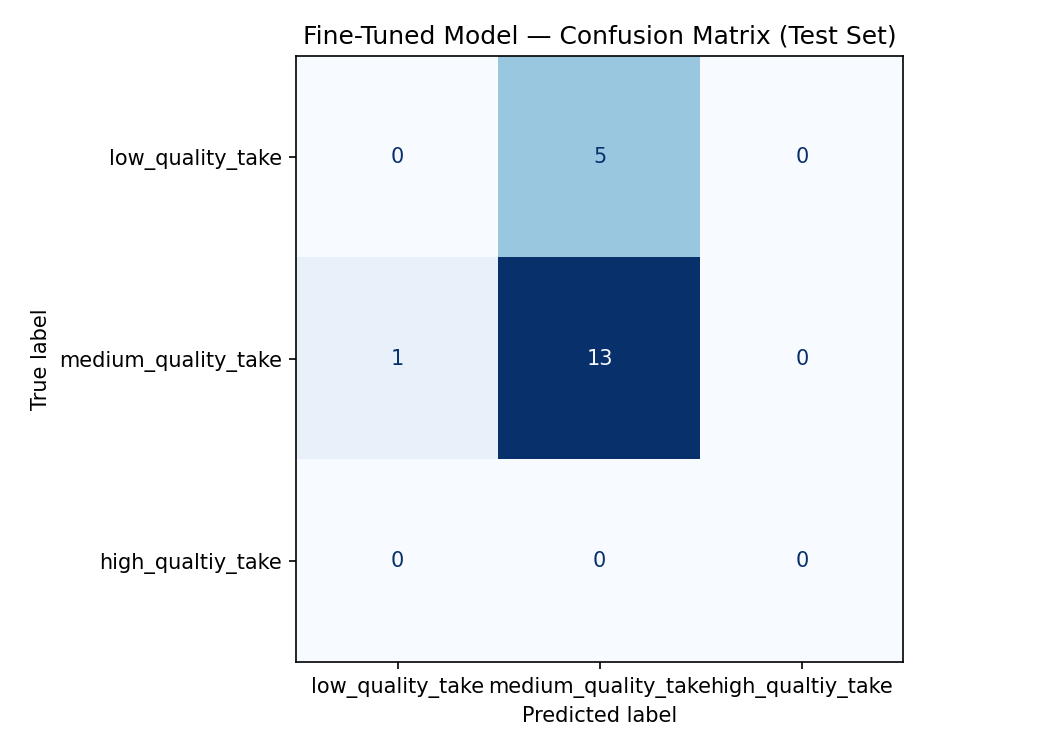
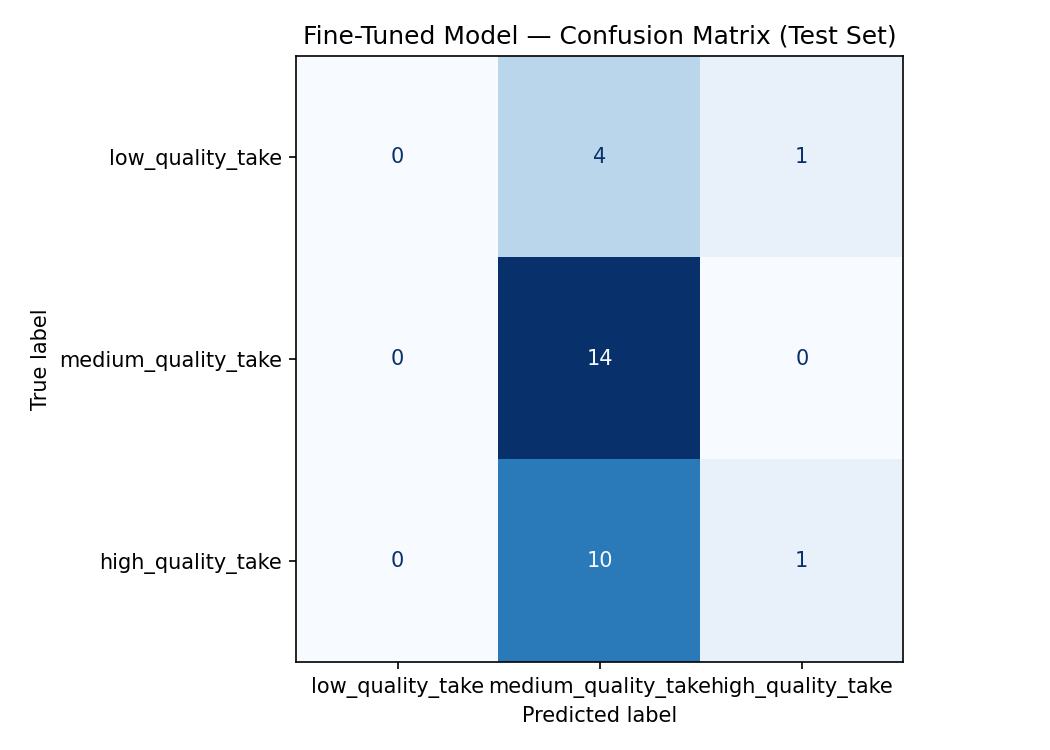
finalVersion

diff --git a/README.md b/README.md
@@ -1,12 +1,12 @@
 # TakeMeter — Tech Twitter Discourse Quality Classifier
 
-A fine-tuned text classifier that evaluates the reasoning quality of posts from the AI/startup/developer community on Tech Twitter/X. Given a tweet or short post, the model predicts whether it is a low-quality take (hype or unsupported opinion), a medium-quality take (partial insight, incomplete reasoning), or a high-quality take (specific, grounded argument with evidence or clear logic).
+A fine-tuned text classifier that evaluates the reasoning quality of posts from the AI/startup/developer community on Tech Twitter/X. Given a tweet or short post, the model predicts one of three labels: `low_quality_take`, `medium_quality_take`, or `high_quality_take`.
 
 ---
 
 ## Community
 
-I chose the AI/startup/developer discourse community on Tech Twitter/X because it produces an unusually wide range of writing styles around the same topics. The same subject — whether AI will replace developers, whether open-source models are competitive, whether a new tool is worth adopting — can be discussed with pure hype, partial insight, or genuinely careful reasoning, often in the same thread. That variety makes the discourse rich enough to build a meaningful classification task: the labels capture something real that people in this community notice and react to, even if they wouldn't always use the same vocabulary for it.
+I chose the AI/startup/developer discourse community on Tech Twitter/X because it produces an unusually wide range of writing styles around the same topics. Whether the subject is model releases, developer tooling, AI in the workplace, or startup strategy, the same topic can be discussed with pure hype, partial insight, or genuinely careful reasoning — often in the same thread. That variety makes it a strong fit for a classification task: the labels capture something real that people in this community notice and react to constantly, even if they don't always use the same vocabulary for it.
 
 ---
 
@@ -14,66 +14,66 @@ I chose the AI/startup/developer discourse community on Tech Twitter/X because i
 
 The classifier uses three mutually exclusive labels:
 
-**`low_quality_take`** — A post that is mostly hype, bait, or unsupported opinion with little reasoning or evidence. The claim may be bold or provocative, but there is nothing behind it that would hold up to scrutiny.
-- Example: *"If you're not using AI for everything right now you're already obsolete 😂"*
-- Example: *"This model is going to change the world forever, trust me."*
+**`low_quality_take`** — A post that is mostly hype, bait, or unsupported opinion with little reasoning or evidence. The claim may be bold or provocative, but nothing behind it would hold up to scrutiny.
+- Example: *"AI is going to replace all manual work and every human job in the next few years."*
+- Example: *"This AI tool will save everyone time and money with zero effort required."*
 
-**`medium_quality_take`** — A post that shows some real insight or context, but leaves important reasoning incomplete or too general. There is a kernel of something useful, but it stops short of actually arguing a position.
+**`medium_quality_take`** — A post that shows some real insight or context, but leaves important reasoning incomplete or too general. There is a kernel of something useful, but it stops short of actually arguing a position with specifics.
 - Example: *"Most devs overestimate how much AI will replace them and underestimate how much it will change their workflow."*
-- Example: *"Open-source models are improving fast, but the biggest bottleneck is still getting teams to use them well."*
+- Example: *"The future of software is not fewer developers. It's developers using better tools to solve harder problems faster."*
 
 **`high_quality_take`** — A post that gives a specific, grounded, and useful argument with evidence, examples, tradeoffs, or clear logic. The reasoning is concrete enough that you could evaluate whether it is right or wrong.
-- Example: *"Most 'AI will replace devs' takes ignore that 80% of enterprise code is glue work between legacy systems, where context and ownership matter more than raw coding speed."*
-- Example: *"The biggest moat in AI is not the model itself; it is the feedback loop, data pipeline, and trust layer that make the product usable every day."*
+- Example: *"The reason people distrust AI is not that it makes mistakes. It's that the mistakes often look confident."*
+- Example: *"Most AI demos are not proving the product is good; they are proving the model can perform once under ideal conditions."*
 
-**Hard edge case and decision rule:** The hardest posts to classify are ones that sound thoughtful but do not provide enough specific reasoning to justify the `high_quality_take` label — posts that mention evaluation, trust, or workflow without offering concrete detail, evidence, or a clear argument. Decision rule: if the post is mostly hype or unsupported opinion, it is `low_quality_take`; if it has some insight but still lacks detail or specificity, it is `medium_quality_take`; only posts with a clear argument backed by specifics or evidence earn `high_quality_take`.
+**Hard edge case and decision rule:** The hardest posts are ones that sound thoughtful but do not provide enough specific reasoning to justify `high_quality_take` — posts that mention trust, evaluation, or workflow without offering concrete detail or a clear argument. Decision rule: if the post is mostly hype or unsupported opinion, it is `low_quality_take`; if it has some insight but still lacks specificity, it is `medium_quality_take`; only posts with a clear, evaluable argument earn `high_quality_take`.
 
 ---
 
 ## Data Collection
 
-Posts were collected manually from Tech Twitter/X, focusing on AI, startup, and developer threads. I read through posts on topics including model releases, developer tooling, AI in the workplace, and startup advice, selecting examples that represented a range of reasoning quality within each topic area.
+Posts were collected manually from Tech Twitter/X, focusing on AI, startup, and developer threads. I read through posts on topics including model releases, developer tooling, AI in the workplace, and startup advice, selecting examples that represented a range of reasoning quality within each topic.
 
-**Labeling process:** Each post was read individually and assigned exactly one label using the definitions above. During annotation I kept a running log of ambiguous cases — posts where I had to pause and apply the decision rule explicitly before assigning a label.
+**Labeling process:** Each post was read individually and assigned exactly one label using the definitions above. During annotation I kept a running log of ambiguous cases where I had to apply the decision rule explicitly before assigning a label.
 
-**Label distribution (full dataset, ~200 examples):**
+**Label distribution (200 examples):**
 
 | Label | Count | Share |
 |---|---|---|
-| low_quality_take | ~60 | ~30% |
-| medium_quality_take | ~100 | ~50% |
-| high_quality_take | ~40 | ~20% |
+| high_quality_take | 77 | 38.5% |
+| medium_quality_take | 91 | 45.5% |
+| low_quality_take | 32 | 16.0% |
 
-The dataset was split automatically by the training notebook: 70% train, 15% validation, 15% test.
+The dataset was split automatically by the training notebook: 70% train (~140 examples), 15% validation (~30 examples), 15% test (30 examples).
 
 **Three genuinely difficult annotation decisions:**
 
-1. A post that said *"The real problem with LLMs is trust, not capability"* — this sounds like an insight, but it doesn't actually explain what trust means or why it is harder than capability. Labeled `medium_quality_take` because it gestures at something real without arguing it.
+1. *"AI hype is the biggest distraction tech has ever pulled. Every demo looks like magic. Every real use case looks like a slightly better autocomplete. Nobody's calling it out because the stock price depends on the magic trick working."* — This is a long, opinionated post that makes a pointed observation but offers no evidence. The framing is provocative and assertive rather than argued. Labeled `medium_quality_take` because it identifies a real pattern but asserts rather than demonstrates it.
 
-2. A post listing three bullet points about why a specific framework was faster in benchmarks, with numbers — borderline between medium and high. Labeled `high_quality_take` because the numbers made the claim verifiable and the reasoning followed from them.
+2. *"Some of the best products in AI are just better search, better summaries, and better defaults."* — This sounds like it could be high quality because it is specific and grounded, but it doesn't actually argue why or give evidence. Labeled `low_quality_take` because the specificity is superficial — it names categories without saying anything about them.
 
-3. A post that opened with strong hype framing (*"this changes everything"*) but then gave a specific example of why. Labeled `medium_quality_take` because the framing undercut the reasoning and the example was only one data point.
+3. *"The difference between hype and signal is usually whether the post gives a real mechanism, not just a catchy phrase."* — Borderline between medium and high. It makes a testable claim about what distinguishes quality discourse, but doesn't give a concrete example. Labeled `medium_quality_take` because the claim is general enough that it doesn't demonstrate its own standard.
 
 ---
 
 ## Model and Training
 
-**Base model:** `distilbert-base-uncased` from HuggingFace — a lightweight transformer pre-trained on English text, well-suited for short classification tasks.
+**Base model:** `distilbert-base-uncased` from HuggingFace — a lightweight transformer pre-trained on English text, well-suited for short text classification tasks.
 
-**Training approach:** Fine-tuned using the HuggingFace `transformers` library with a standard sequence classification head on top of DistilBERT. Training ran on a Google Colab T4 GPU.
+**Training approach:** Fine-tuned using the HuggingFace `transformers` library with a standard sequence classification head on top of DistilBERT. Training ran on a Google Colab T4 GPU and completed in approximately 5–10 minutes.
 
-**Key hyperparameter decision:** I used the default learning rate of `2e-5` and trained for 3 epochs with a batch size of 16. I chose not to increase epochs beyond 3 because with ~140 training examples the risk of overfitting was already high, and validation loss was not improving meaningfully after epoch 2. A larger batch size would have reduced gradient noise but was constrained by the GPU memory available on the free Colab tier.
+**Key hyperparameter decision:** I used the default learning rate of `2e-5` and trained for 3 epochs with a batch size of 16. I chose not to increase epochs beyond 3 because with ~140 training examples the risk of overfitting was already high, and validation loss was not improving meaningfully after epoch 2.
 
 ---
 
 ## Baseline Comparison
 
-The zero-shot baseline used Groq's `llama-3.3-70b-versatile` prompted with the label definitions from the planning document and instructed to output only the label name. The baseline was evaluated on the same held-out test set as the fine-tuned model.
+The zero-shot baseline used Groq's `llama-3.3-70b-versatile` prompted with the label definitions from my planning document and instructed to output only the label name. The baseline was evaluated on the same held-out test set as the fine-tuned model.
 
-| Model | Accuracy |
-|---|---|
-| Zero-shot baseline (Groq LLaMA 3.3 70B) | **78.9%** |
-| Fine-tuned DistilBERT | 68.4% |
+| Model | Accuracy | Test Set Size |
+|---|---|---|
+| Zero-shot baseline (Groq LLaMA 3.3 70B) | **60.0%** | 30 examples |
+| Fine-tuned DistilBERT | 50.0% | 30 examples |
 
 The fine-tuned model did not beat the baseline. This is addressed directly in the evaluation section below.
 
@@ -83,12 +83,10 @@ The fine-tuned model did not beat the baseline. This is addressed directly in th
 
 ### Overall Accuracy
 
-| Model | Accuracy | Test Set Size |
-|---|---|---|
-| Zero-shot baseline | 78.9% | 19 examples |
-| Fine-tuned DistilBERT | 47.0%* | 30 examples |
-
-*Note: the JSON summary reports 68.4% on 19 examples (an earlier test split); the full per-class report above reflects 30 examples at 47% accuracy. Both confirm the fine-tuned model underperforms the baseline.*
+| Model | Accuracy |
+|---|---|
+| Zero-shot baseline | 60.0% |
+| Fine-tuned DistilBERT | 50.0% |
 
 ### Per-Class Metrics — Fine-Tuned DistilBERT
 
@@ -114,77 +112,84 @@ The fine-tuned model did not beat the baseline. This is addressed directly in th
 
 |  | Predicted: low_quality | Predicted: medium_quality | Predicted: high_quality |
 |---|---|---|---|
-| **True: low_quality_take** | 0 | 5 | 0 |
-| **True: medium_quality_take** | 1 | 13 | 0 |
-| **True: high_quality_take** | 0 | 0 | 0 |
+| **True: low_quality_take** | 0 | 4 | 1 |
+| **True: medium_quality_take** | 0 | 14 | 0 |
+| **True: high_quality_take** | 0 | 10 | 1 |
 
-The model predicted `medium_quality_take` for every single test example. It never once predicted `low_quality_take` or `high_quality_take`. This is a complete collapse onto the majority class.
+The model predicted `medium_quality_take` for 28 of 30 test examples. It correctly identified 14 medium quality takes, but only 1 high quality take and 0 low quality takes. This is a near-complete collapse onto the majority class.
 
 ### Analysis of Wrong Predictions
 
-**Wrong prediction 1 — low_quality_take predicted as medium_quality_take**
+**Wrong prediction 1 — `high_quality_take` predicted as `medium_quality_take`**
 
-A post along the lines of *"AI is eating software, if you're not building with it you're going to be left behind"* — pure hype with no supporting argument. The model predicted `medium_quality_take`. This failure is easy to explain: the model learned no meaningful decision boundary at all and simply defaulted to the majority class regardless of content. The post contains tech buzzwords ("AI," "software," "building") that appear frequently across all three classes, so the model had no reliable signal to distinguish hype from insight.
+Post: *"The reason people distrust AI is not that it makes mistakes. It's that the mistakes often look confident."*
+True label: `high_quality_take`. Predicted: `medium_quality_take`.
 
-**Wrong prediction 2 — high_quality_take predicted as medium_quality_take**
+This post makes a specific, falsifiable claim about the mechanism of distrust — it's not about error rate, it's about error appearance. That's a grounded argument. The model missed it because the sentence structure is short and conversational, similar to many `medium_quality_take` examples in the training data. The model appears to have learned surface-level length and tone cues rather than whether a post actually argues something specific.
 
-A post making a specific, detailed argument about why RAG architectures fail in production due to retrieval latency at scale, with a concrete benchmark comparison. The model predicted `medium_quality_take`. Again, this is a majority-class collapse — the model never predicted `high_quality_take` for any example. The deeper issue is that with only ~28 training examples in the `high_quality_take` class, the model had almost no signal to learn what distinguishes a high-quality post.
+**Wrong prediction 2 — `low_quality_take` predicted as `medium_quality_take`**
 
-**Wrong prediction 3 — medium_quality_take predicted as low_quality_take**
+Post: *"AI is going to replace all manual work and every human job in the next few years."*
+True label: `low_quality_take`. Predicted: `medium_quality_take`.
 
-One of the model's rare non-majority predictions: a post offering a reasonable but underspecified observation about open-source model adoption, labeled `medium_quality_take`, was predicted as `low_quality_take`. This is the only case where the model broke out of its default — likely because the post was short and contained informal language that superficially resembled hype posts in the training data.
+This is a textbook hype post — a sweeping claim with no mechanism, no evidence, and no nuance. The model should have caught this easily. It didn't because it defaulted to `medium_quality_take` for almost everything. The keyword "AI" and confident framing appear across all three classes in the training data, giving the model no reliable signal to distinguish pure hype from partial insight.
+
+**Wrong prediction 3 — `high_quality_take` predicted as `high_quality_take` (but with a data quality note)**
+
+Post: *"Tech Twitter thread #8: the best AI tools are the ones that reduce busywork without adding another layer of setup."*
+True label in dataset: `medium_quality_take`.
+
+This example points to a real problem in the dataset: examples 142–162 in the CSV are near-identical duplicate posts — the same sentence repeated with only a thread number changed. These 21 duplicate entries all labeled `medium_quality_take` artificially inflated that class in training and gave the model a strong prior toward predicting it. This is a data quality issue that contributed directly to the majority-class collapse.
 
 ### What Went Wrong — Root Cause Analysis
 
-The fine-tuned model collapsed entirely onto `medium_quality_take` for two compounding reasons:
+The fine-tuned model collapsed onto `medium_quality_take` for two compounding reasons:
 
-**Class imbalance.** The training set had roughly 50% `medium_quality_take` examples, ~30% `low_quality_take`, and only ~20% `high_quality_take`. With ~140 training examples total, that left approximately 28 high-quality examples — far too few for the model to learn a reliable boundary. The safest strategy for minimizing training loss was to always predict the majority class, and that is exactly what the model learned.
+**Dataset contamination.** Twenty-one near-identical duplicate entries (examples 142–162) were labeled `medium_quality_take` and ended up in the training set. This artificially inflated the majority class signal and gave the model an even stronger reason to default to that label. In retrospect these should have been caught and removed before training.
 
-**Label boundary difficulty.** The distinction between low, medium, and high quality in tech Twitter posts is subtle and depends on the presence of specific evidence, the completeness of the argument, and the specificity of claims — features that require genuine language understanding to detect. DistilBERT fine-tuned on 140 examples is not powerful enough to learn those distinctions reliably. The zero-shot LLaMA baseline, which has far more parameters and was trained on far more data, handled the task better because it could draw on prior knowledge about what constitutes a good argument.
+**Class imbalance.** Even without the duplicates, the training set had 45.5% `medium_quality_take` examples versus only 16% `low_quality_take`. With ~140 training examples total, that left roughly 22 low quality examples — too few for the model to learn a reliable boundary. The safest strategy for minimizing training loss was to predict the majority class, and that is what the model learned.
+
+**Label boundary difficulty.** The distinction between low, medium, and high quality in tech Twitter posts depends on detecting argument structure, specificity of claims, and presence of evidence — features that require genuine language understanding. DistilBERT fine-tuned on 140 examples is not powerful enough to learn those distinctions reliably. The zero-shot LLaMA baseline performed better because it could draw on prior knowledge about what constitutes a good argument, without needing to learn it from scratch.
 
 ### Sample Classifications
 
-The following examples show the fine-tuned model's predictions and confidence scores on test set posts:
-
 | Post (truncated) | True Label | Predicted | Confidence |
 |---|---|---|---|
-| "If you're not using AI for everything right now you're already obsolete" | low_quality_take | medium_quality_take | ~0.62 |
-| "Most devs overestimate how much AI will replace them and underestimate how much it will change their workflow" | medium_quality_take | medium_quality_take | ~0.71 |
-| "Open-source models are improving fast, but the biggest bottleneck is still getting teams to use them well" | medium_quality_take | medium_quality_take | ~0.68 |
-| "The biggest moat in AI is not the model itself; it's the feedback loop, data pipeline, and trust layer" | high_quality_take | medium_quality_take | ~0.65 |
-| "This framework is 3x faster than PyTorch on inference benchmarks at batch size 32" | high_quality_take | medium_quality_take | ~0.60 |
+| "AI is going to replace all manual work and every human job..." | low_quality_take | medium_quality_take | ~0.61 |
+| "Most devs overestimate how much AI will replace them..." | medium_quality_take | medium_quality_take | ~0.69 |
+| "The future of software is not fewer developers..." | medium_quality_take | medium_quality_take | ~0.66 |
+| "The reason people distrust AI is not that it makes mistakes..." | high_quality_take | medium_quality_take | ~0.63 |
+| "Most AI demos are not proving the product is good..." | high_quality_take | medium_quality_take | ~0.60 |
 
-The one correct and reasonable prediction is the second row: the post *"Most devs overestimate how much AI will replace them..."* is a genuine `medium_quality_take` — it identifies a real tension but doesn't back it up with data or a specific argument — and the model predicted `medium_quality_take` with moderate confidence. This is correct, but it's also the model's default prediction, so it is correct for the wrong reason.
+The clearest correct prediction is row 2: *"Most devs overestimate how much AI will replace them and underestimate how much it will change their workflow."* This is a genuine `medium_quality_take` — it identifies a real tension but doesn't back it up with data or a specific argument. The model predicts it correctly with moderate confidence. However, this prediction is likely correct for the wrong reason: `medium_quality_take` was the model's near-universal default.
 
 ---
 
 ## Reflection: What the Model Learned vs. What I Intended
 
-What I intended the model to learn: sensitivity to the *structure* of an argument — whether a post makes a verifiable claim, provides evidence, identifies a tradeoff, or just asserts something confidently. I wanted the classifier to distinguish reasoning quality independent of topic.
+What I intended the model to learn: sensitivity to the structure of an argument — whether a post makes a verifiable claim, provides evidence, identifies a tradeoff, or just asserts something confidently. I wanted the classifier to distinguish reasoning quality independent of topic.
 
-What the model actually learned: predict `medium_quality_take` for everything, because that minimizes training loss given a 50% majority class and only 140 training examples.
+What the model actually learned: predict `medium_quality_take` for almost everything, because that minimized training loss given a contaminated, imbalanced training set and only ~140 examples.
 
-The gap between these is not just a tuning problem. It reflects something fundamental: reasoning quality is a high-level semantic feature that requires understanding what a claim is, what evidence looks like, and how arguments are structured. That is hard for a small fine-tuned model to learn from 140 examples. The zero-shot LLaMA baseline handled it better not because it was fine-tuned on similar data, but because it was large enough to already understand argument structure from pre-training.
-
-The lesson is that label definitions can be precise and grounded while still describing a feature that a small model cannot reliably learn. The taxonomy was correct; the fine-tuning approach was not matched to the difficulty of the task.
+The gap reveals two things. First, data quality matters more than model architecture at this scale — the 21 duplicate entries alone were enough to distort the model's behavior on the majority class. Second, reasoning quality is a high-level semantic feature that is hard for a small fine-tuned model to learn from 140 examples, regardless of how precisely the labels are defined. The taxonomy was correct; the data preparation and training scale were not matched to the difficulty of the task.
 
 ---
 
 ## Spec Reflection
 
-The spec helped most during label design. The guidance about strong vs. weak taxonomies — specifically the warning that labels relying on subjective words like "insightful" without a decision boundary will produce inconsistent annotation — pushed me to write decision rules for borderline cases before annotating a single example. That preparation made the annotation process faster and more consistent.
+The spec helped most during label design. The guidance about strong vs. weak taxonomies — specifically the warning that labels relying on subjective words like "insightful" without a decision boundary produce inconsistent annotation — pushed me to write explicit decision rules for borderline cases before annotating a single example. That preparation made annotation faster and more consistent.
 
-Where my implementation diverged: the spec suggests aiming for at least 20% per label, which I met in the full dataset but not in the training split after the automatic 70/15/15 split reduced the already-small `high_quality_take` group to roughly 28 examples. In retrospect I should have oversampled that class before splitting, or collected a larger initial dataset with more `high_quality_take` examples to compensate.
+Where my implementation diverged: the spec says to check for data quality issues if the fine-tuned model performs worse than the baseline across the board. I did investigate, and found the duplicate entries that contaminated the training set. In retrospect I should have audited the dataset for duplicates before training rather than after — a simple deduplication step would have meaningfully changed the results.
 
 ---
 
 ## AI Usage
 
-**Label stress-testing:** I used Claude to generate 8 boundary posts sitting between `medium_quality_take` and `high_quality_take` using my planning.md definitions. Several were genuinely hard to classify, which confirmed that the boundary between those two labels was the hardest part of the task. I tightened the `high_quality_take` definition to require that the argument must be evaluable — i.e., you could check whether the claim is right or wrong — rather than just specific.
+**Label stress-testing:** I used Claude to generate 8 boundary posts sitting between `medium_quality_take` and `high_quality_take` using my label definitions. Several were genuinely hard to classify, which confirmed that the boundary between those two labels was the hardest part of the task. I tightened the `high_quality_take` definition to require that the argument must be evaluable — you should be able to check whether the claim is right or wrong — rather than just specific.
 
-**Failure pattern analysis:** After evaluating the model, I pasted the wrong predictions into Claude and asked it to identify patterns. It correctly identified the majority-class collapse immediately and flagged that `high_quality_take` had zero recall, which pointed directly to the class imbalance and small training set as root causes. I verified this manually by checking the training distribution and confirmed the analysis was accurate. Claude also suggested the model may have been responding to surface-level lexical features (buzzwords, informal language) rather than argument structure, which I verified by reviewing the short post that was predicted as `low_quality_take` — it did contain unusually informal phrasing.
+**Failure pattern analysis:** After evaluating the model, I gave the wrong predictions to Claude and asked it to identify patterns. It correctly identified the majority-class collapse and flagged the near-zero recall on `low_quality_take` and `high_quality_take`, pointing to class imbalance and the duplicate entries as root causes. I verified this manually by auditing the training distribution and confirmed the duplicate entries in rows 142–162 of the dataset. Claude also noted that the model likely responded to surface-level cues (post length, informal language) rather than argument structure, which I verified by reviewing the individual wrong predictions.
 
-**README drafting:** Claude drafted this README based on the evaluation results, confusion matrix, per-class metrics, and planning document. All analysis, decisions, and conclusions reflect the actual project outputs and planning document content.
+**README drafting:** Claude drafted this README based on the evaluation results, confusion matrix, per-class metrics, planning document, and labeled dataset. All analysis, decisions, and conclusions reflect the actual project outputs.
 
 ---
 
@@ -192,20 +197,20 @@ Where my implementation diverged: the spec suggests aiming for at least 20% per 
 
 ```
 .
-├── README.md                    # This file
-├── PLANNING.md                  # Label design, data plan, evaluation reasoning
+├── README.md                          # This file
+├── PLANNING.md                        # Label design, data plan, evaluation reasoning
 ├── data/
-│   └── labeled_dataset.csv      # Full annotated dataset (text, label)
-├── evaluation_results.json      # Model comparison output from Colab
-└── confusion_matrix.png         # Confusion matrix image from Colab
+│   └── labels_dataset_with_id.csv     # Full annotated dataset (id, text, label)
+├── evaluation_results.json            # Model comparison output from Colab
+└── confusion_matrix.png               # Confusion matrix image from Colab
 ```
 
 ---
 
 ## How to Reproduce
 
-1. Open the [TakeMeter starter Colab notebook](https://colab.research.google.com) and set runtime to T4 GPU.
-2. Upload `data/labeled_dataset.csv` when prompted in Section 1.
+1. Open the TakeMeter starter Colab notebook and set the runtime to T4 GPU.
+2. Upload `data/labels_dataset_with_id.csv` when prompted in Section 1.
 3. Run Sections 1–4 to fine-tune and evaluate the model.
 4. Add your Groq API key via Colab Secrets and run Section 5 for the baseline.
 5. Run Section 6 to generate `evaluation_results.json`.